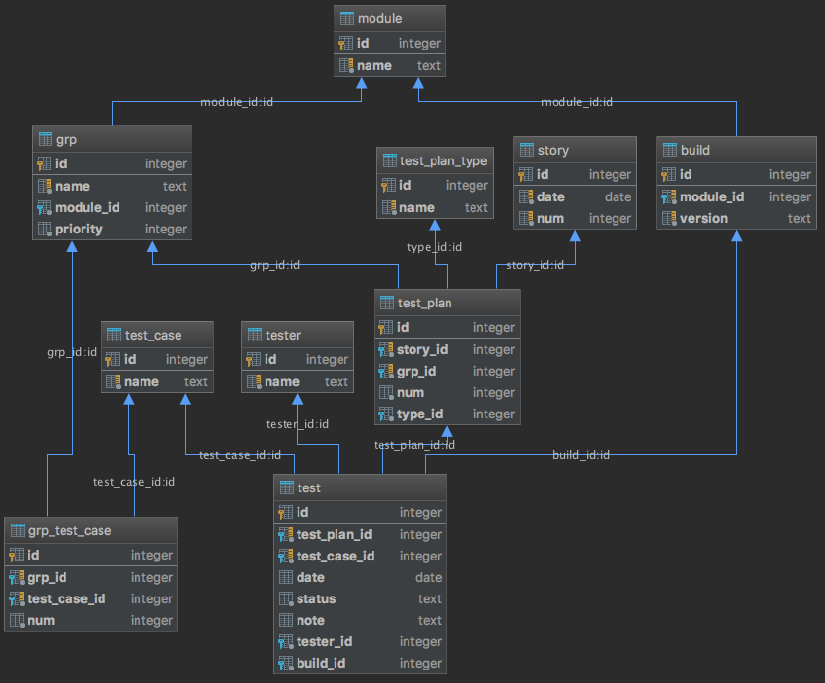
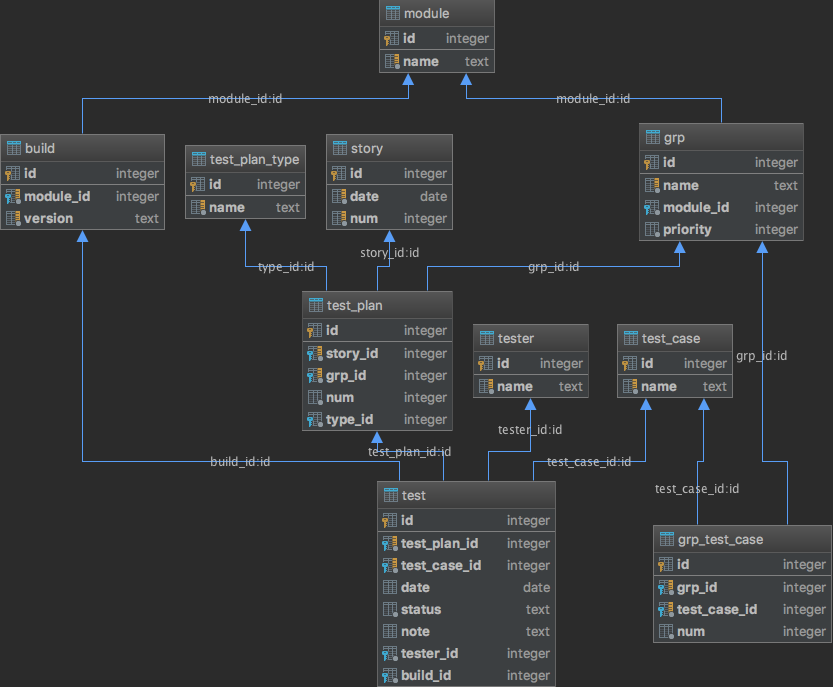
fix db diagram and readme

diff --git a/README.md b/README.md
@@ -1,4 +1,4 @@
-Test Case Manager is an information system that stores and processes stories 
+Test Case Manager is an information system that stores and processes 
 test cases and its groups, testers, stories/releases, modules, builds, 
 test plans and its types, tests.
  
